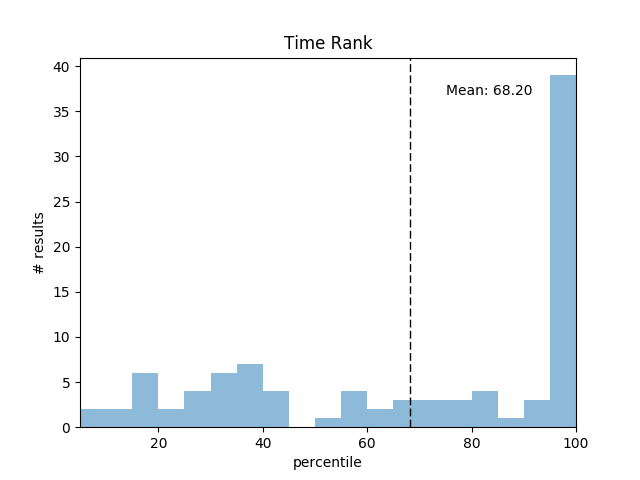
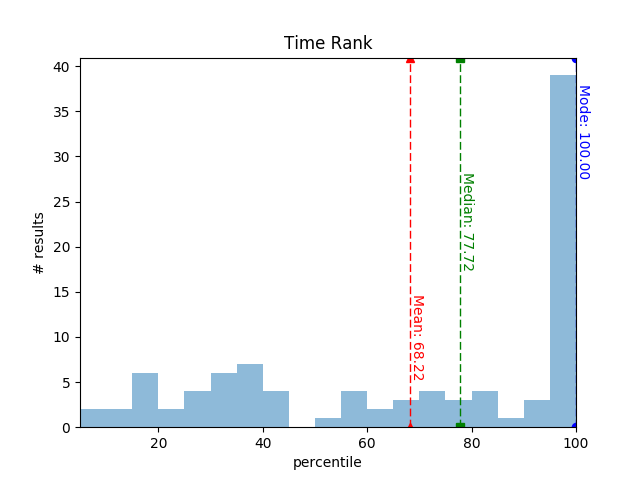
slightly better graphs

diff --git a/README.md b/README.md
@@ -6,3 +6,7 @@
 
 # leetcode
 Collection of solutions for problems at https://leetcode.com/
+
+![Time Rank](https://raw.githubusercontent.com/cfriedt/leetcode/master/.scripts/time-rank.png)
+
+![Space Rank](https://raw.githubusercontent.com/cfriedt/leetcode/master/.scripts/space-rank.png)
